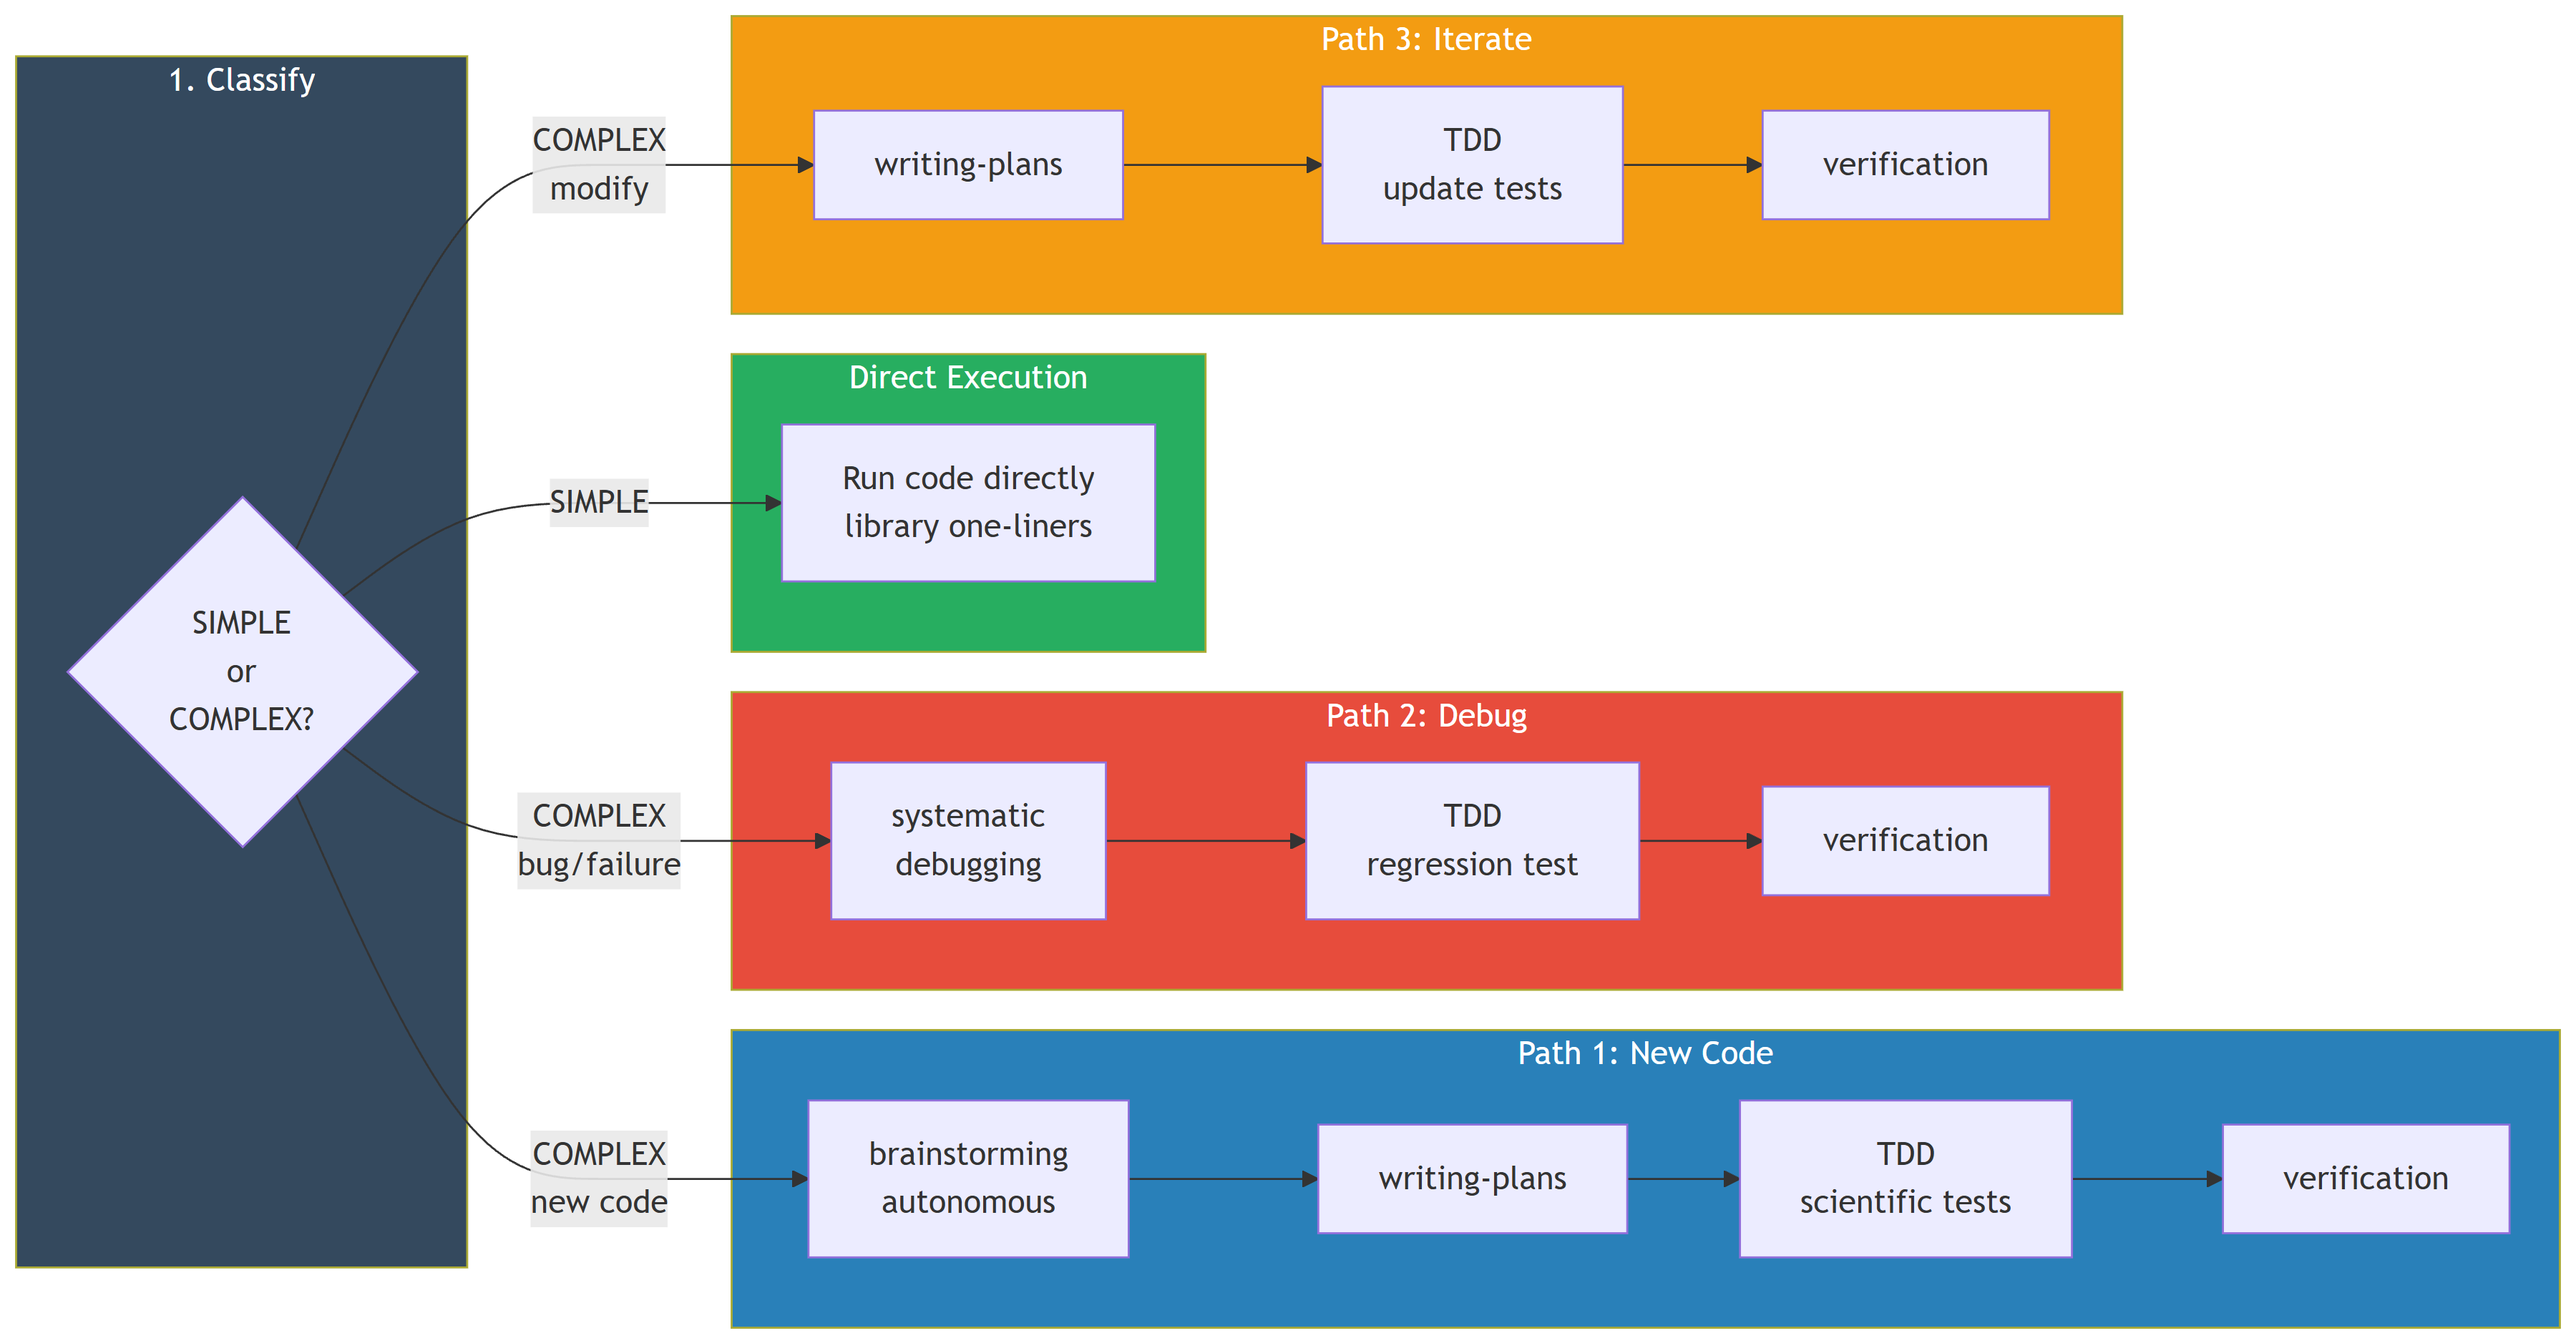
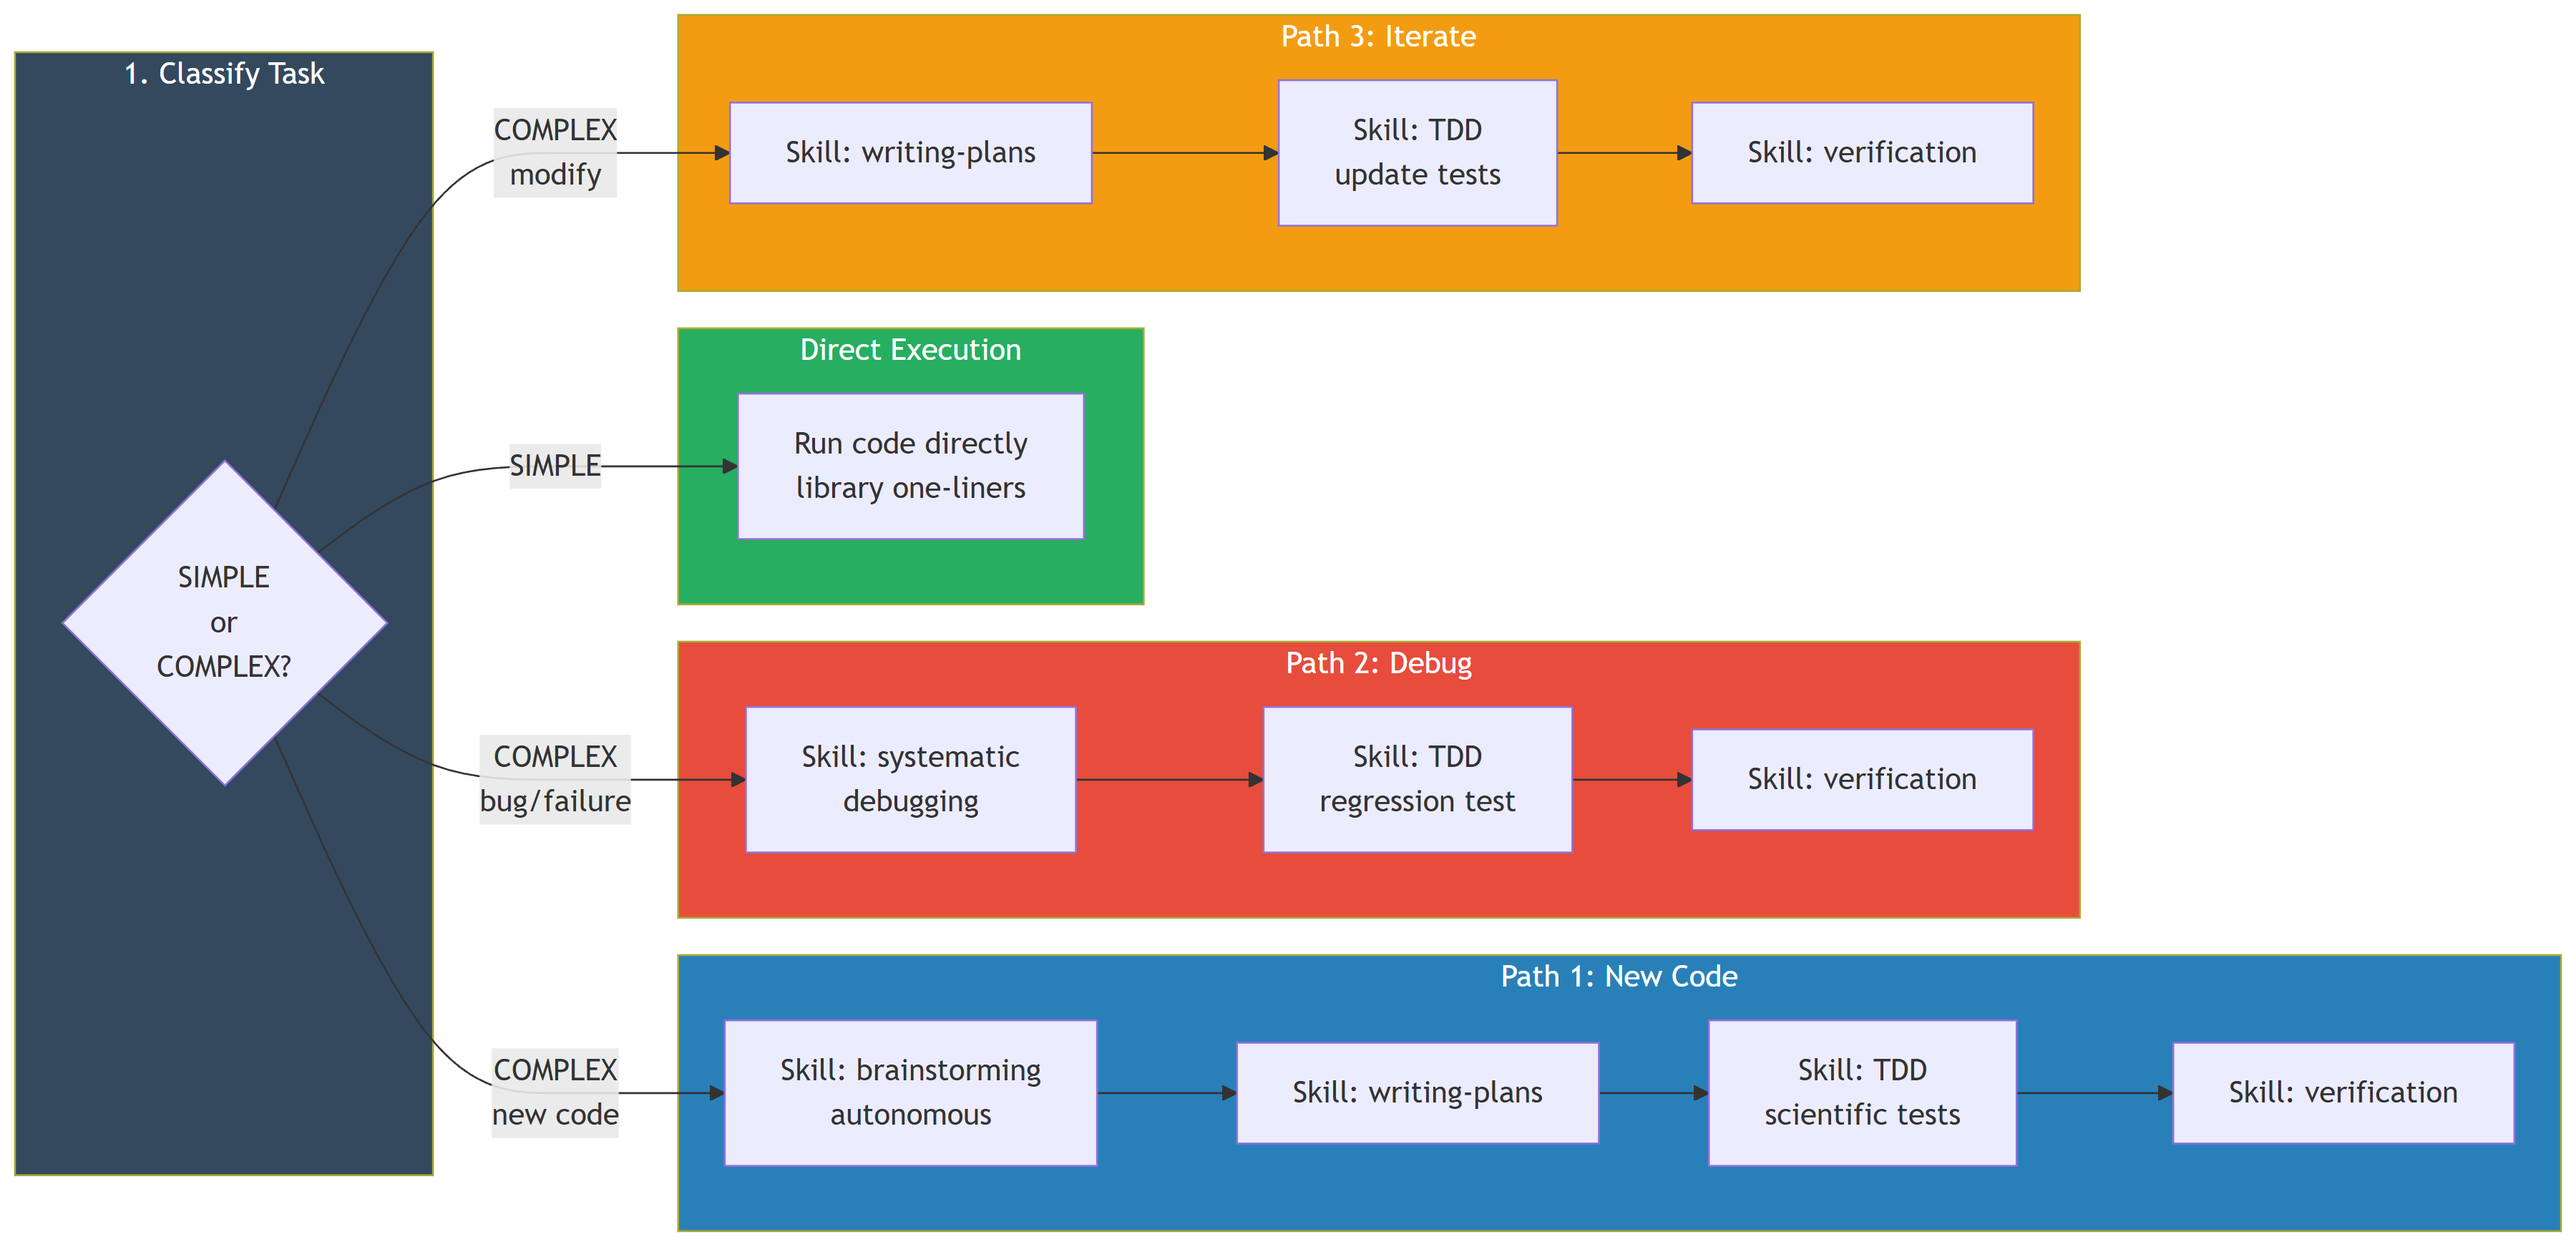
docs: use Mermaid MCP-generated PNG diagrams instead of inline code blocks

Changed region(s): [[0.0, 0.0, 0.9956, 0.9914], [0.4667, 0.0, 0.84, 0.2478], [0.0622, 0.031, 0.1244, 0.0929]]

diff --git a/README.md b/README.md
@@ -19,73 +19,9 @@ A Claude Code plugin covering the full academic research lifecycle — from lite
 
 ## Pipeline
 
-```mermaid
-flowchart TB
-    subgraph S1["Stage 1: RESEARCH"]
-        DR["deep-research<br/>13 agents"]
-    end
-
-    subgraph S15["Stage 1.5: EXPERIMENT — auto-detected"]
-        direction TB
-        ED["experiment-designer<br/>6 agents"]
-        DA["data-analyst<br/>7 agents"]
-        SR["simulation-runner<br/>5 agents"]
-        LN["lab-notebook<br/>4 agents"]
-        ED --> DA & SR
-        DA & SR -.-> LN
-    end
-
-    subgraph S2["Stage 2: WRITE"]
-        AP["academic-paper<br/>12 agents"]
-    end
-
-    subgraph S25["Stage 2.5: INTEGRITY"]
-        IV1["integrity verification<br/>100% reference + data check"]
-    end
-
-    subgraph S3["Stage 3: REVIEW"]
-        APR["academic-paper-reviewer<br/>EIC + 3 Reviewers + Devil's Advocate"]
-    end
-
-    subgraph S4["Stage 4: REVISE"]
-        APrev["academic-paper<br/>revision mode"]
-    end
-
-    subgraph S3p["Stage 3': RE-REVIEW"]
-        APR2["academic-paper-reviewer<br/>re-review mode"]
-    end
-
-    subgraph S45["Stage 4.5: FINAL INTEGRITY"]
-        IV2["integrity verification<br/>zero-tolerance check"]
-    end
-
-    subgraph S5["Stage 5: FINALIZE"]
-        FIN["MD + DOCX + LaTeX + PDF"]
-    end
-
-    S1 -->|"methodology<br/>blueprint"| S15
-    S1 -->|"no experiment<br/>needed"| S2
-    S15 -->|"Schema 10-12<br/>results"| S2
-    S2 --> S25
-    S25 -->|PASS| S3
-    S25 -->|FAIL| S25
-    S3 -->|"Minor / Major"| S4
-    S3 -->|Accept| S45
-    S4 --> S3p
-    S3p -->|Accept| S45
-    S3p -->|Major| S4
-    S45 -->|PASS| S5
-
-    style S1 fill:#4A90D9,color:#fff
-    style S15 fill:#F5A623,color:#fff
-    style S2 fill:#7B68EE,color:#fff
-    style S25 fill:#E74C3C,color:#fff
-    style S3 fill:#2ECC71,color:#fff
-    style S4 fill:#9B59B6,color:#fff
-    style S3p fill:#2ECC71,color:#fff
-    style S45 fill:#E74C3C,color:#fff
-    style S5 fill:#1ABC9C,color:#fff
-```
+<p align="center">
+  <img src="assets/pipeline.png" alt="Academic Research Pipeline" width="500"/>
+</p>
 
 The experiment stages (1.5) are auto-detected from the methodology blueprint produced by deep-research. Literature reviews, theoretical papers, and policy analyses skip straight to writing.
 
@@ -93,49 +29,9 @@ The experiment stages (1.5) are auto-detected from the methodology blueprint pro
 
 Experiment skills (`experiment-designer`, `data-analyst`, `simulation-runner`) integrate with the [superpowers](https://github.com/obra/superpowers) plugin for disciplined code development. When agents write complex code — custom simulations, SEM models, multi-step analysis pipelines — they autonomously invoke superpowers skills via the `Skill` tool:
 
-```mermaid
-flowchart LR
-    subgraph classify["1. Classify Task"]
-        CL{"SIMPLE<br/>or<br/>COMPLEX?"}
-    end
-
-    subgraph simple["Direct Execution"]
-        SE["Run code directly<br/>library one-liners"]
-    end
-
-    subgraph path1["Path 1: New Code"]
-        B1["Skill: brainstorming<br/>autonomous"]
-        P1["Skill: writing-plans"]
-        T1["Skill: TDD<br/>scientific tests"]
-        V1["Skill: verification"]
-        B1 --> P1 --> T1 --> V1
-    end
-
-    subgraph path2["Path 2: Debug"]
-        D2["Skill: systematic<br/>debugging"]
-        T2["Skill: TDD<br/>regression test"]
-        V2["Skill: verification"]
-        D2 --> T2 --> V2
-    end
-
-    subgraph path3["Path 3: Iterate"]
-        P3["Skill: writing-plans"]
-        T3["Skill: TDD<br/>update tests"]
-        V3["Skill: verification"]
-        P3 --> T3 --> V3
-    end
-
-    CL -->|SIMPLE| SE
-    CL -->|"COMPLEX<br/>new code"| B1
-    CL -->|"COMPLEX<br/>bug/failure"| D2
-    CL -->|"COMPLEX<br/>modify"| P3
-
-    style classify fill:#34495E,color:#fff
-    style simple fill:#27AE60,color:#fff
-    style path1 fill:#2980B9,color:#fff
-    style path2 fill:#E74C3C,color:#fff
-    style path3 fill:#F39C12,color:#fff
-```
+<p align="center">
+  <img src="assets/superpowers-workflow.png" alt="Superpowers Adaptive Workflow" width="700"/>
+</p>
 
 **How it works:**
 
